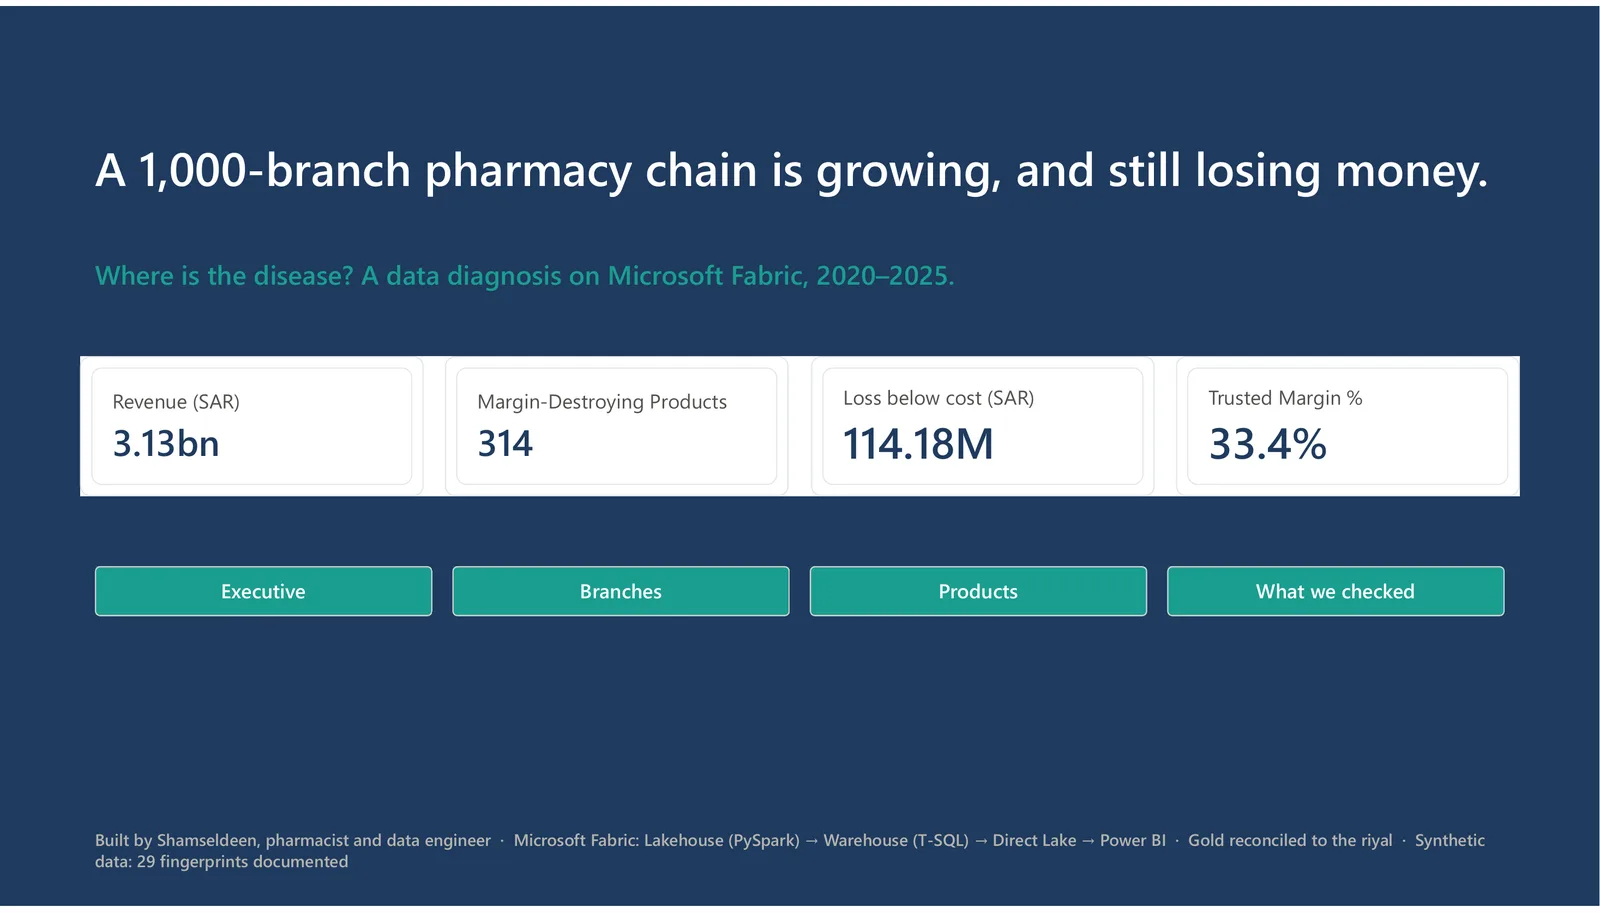
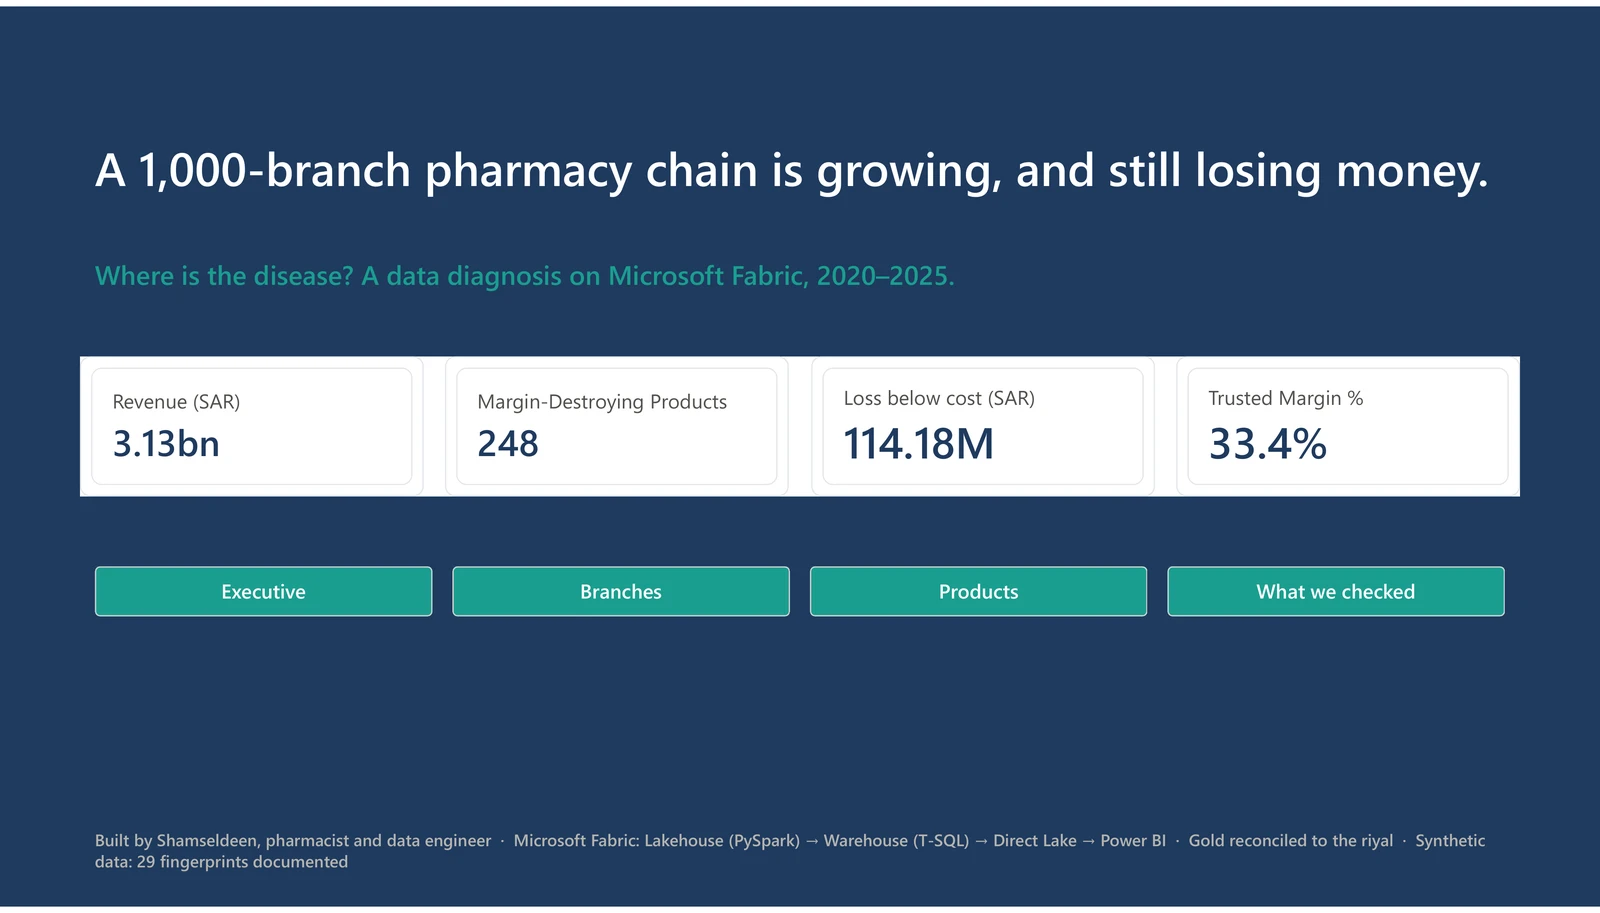
New report screenshots (Home, Products) showing 248; alt texts updated
Claude-Session: https://claude.ai/code/session_01AQige8iJ7D6xowQfUsyuqw

diff --git a/pharmacy-dw-ar.html b/pharmacy-dw-ar.html
@@ -23,7 +23,7 @@
 <h1>السلسلة كانت تنمو.<br><em>ومع ذلك كانت تخسر.</em></h1>
 <p class="case-intro">سلسلة صيدليات من 1,000 فرع تزيد مبيعاتها كل سنة، ومع ذلك تخسر أموالًا. تتبعت البيانات من الكاشير حتى لوحة التقارير، ووجدت أين يذهب المال: <strong>248 صنفًا تُشترى بسعر أعلى من سعر بيعها.</strong></p>
 <div class="hero-actions"><a class="button button-primary" href="#story">اقرأ القصة في دقيقة ↓</a><a class="button button-secondary" href="pharmacy-dashboard-ar.html">استكشف اللوحة التفاعلية ←</a><a class="button button-secondary" href="https://github.com/shamseldeen/pharmacy-enterprise-data-warehouse" target="_blank" rel="noopener">الكود على GitHub ↗</a></div></div>
-<figure class="page-visual page-visual--report"><a class="screenshot-link" href="assets/projects/pharmacy-dw/00_home.webp" target="_blank" rel="noopener"><img src="assets/projects/pharmacy-dw/00_home.webp" width="1600" height="913" loading="lazy" alt="الصفحة الأولى من تقرير Power BI: إيراد 3.13 مليار ريال، 314 صنفًا يدمر الهامش، خسارة 114 مليون ريال، هامش موثوق 33.4%"></a><figcaption>الصفحة الأولى من التقرير · بيانات اصطناعية لسلسلة سعودية، 2020–2025.</figcaption></figure></div>
+<figure class="page-visual page-visual--report"><a class="screenshot-link" href="assets/projects/pharmacy-dw/00_home.webp?v=248" target="_blank" rel="noopener"><img src="assets/projects/pharmacy-dw/00_home.webp?v=248" width="1600" height="913" loading="lazy" alt="الصفحة الأولى من تقرير Power BI: إيراد 3.13 مليار ريال، 248 صنفًا يدمر الهامش، خسارة 114 مليون ريال، هامش موثوق 33.4%"></a><figcaption>الصفحة الأولى من التقرير · بيانات اصطناعية لسلسلة سعودية، 2020–2025.</figcaption></figure></div>
 <aside class="project-brief"><span class="eyebrow">باختصار</span><dl><div><dt>المشكلة</dt><dd>مبيعات تزيد، وربح يتراجع، ولا أحد يعرف السبب</dd></div><div><dt>ماذا بنيت</dt><dd>منصة بيانات كاملة وتقرير من 6 صفحات</dd></div><div><dt>النتيجة</dt><dd>2.6% من الأصناف تسبب 99.8% من الخسارة تحت التكلفة</dd></div><div><dt>الأدوات</dt><dd>Microsoft Fabric · PySpark · SQL · Power BI</dd></div><div><dt>البيانات</dt><dd>اصطناعية · 1,000 فرع · 60 مليون صف</dd></div></dl></aside>
 <div class="scope-stats"><div><strong>114M</strong><span>ريال خسارة في 248 صنفًا (2020–2025)</span></div><div><strong>99.8%</strong><span>من الخسارة تحت التكلفة سببها هذه الأصناف</span></div><div><strong>33%</strong><span>هامش باقي الأصناف</span></div><div><strong>0</strong><span>صف ضائع من المصدر حتى التقرير</span></div></div></section>
 
@@ -31,7 +31,7 @@
 <div class="page-tour">
 <details class="page-detail" open><summary><span class="page-number">01</span><span><strong>المريض يبدو سليمًا</strong><small>الإيراد ينمو حوالي 10% سنويًا.</small></span><span class="detail-symbol" aria-hidden="true">+</span></summary><div class="page-detail-body"><a class="screenshot-link" href="assets/projects/pharmacy-dw/01_executive.webp" target="_blank" rel="noopener"><img src="assets/projects/pharmacy-dw/01_executive.webp" width="1600" height="913" loading="lazy" alt="الصفحة التنفيذية: إيراد 654.5 مليون ريال في 2025 بنمو 10%، مع خريطة السعودية"></a><div class="page-explanation"><h3>ماذا ترى؟</h3><p>المبيعات ترتفع كل سنة، في كل منطقة وكل نوع فرع. لا شيء في هذه الصفحة يبدو خطأ، ولهذا كان صعبًا اكتشاف المشكلة.</p></div></div></details>
 <details class="page-detail"><summary><span class="page-number">02</span><span><strong>الفروع ليست السبب</strong><small>الفروع الضعيفة موزعة، وليست في منطقة واحدة.</small></span><span class="detail-symbol" aria-hidden="true">+</span></summary><div class="page-detail-body"><a class="screenshot-link" href="assets/projects/pharmacy-dw/02_branches.webp" target="_blank" rel="noopener"><img src="assets/projects/pharmacy-dw/02_branches.webp" width="1600" height="913" loading="lazy" alt="صفحة الفروع: 104 فروع في أضعف 10% من مجموعتها"></a><div class="page-explanation"><h3>ماذا ترى؟</h3><p>كل فرع يُقارن فقط بالفروع المشابهة له في الحجم ونوع المدينة. أضعف 10% تظهر بالأحمر كقائمة للمراجعة، وليس للعقاب. واضغط على أي فرع لتفتح صفحته.</p></div></div></details>
-<details class="page-detail"><summary><span class="page-number">03</span><span><strong>المرض المخفي</strong><small>248 صنفًا تُشترى بحوالي 2.5 ضعف سعر القائمة.</small></span><span class="detail-symbol" aria-hidden="true">+</span></summary><div class="page-detail-body"><a class="screenshot-link" href="assets/projects/pharmacy-dw/03_products.webp" target="_blank" rel="noopener"><img src="assets/projects/pharmacy-dw/03_products.webp" width="1600" height="913" loading="lazy" alt="صفحة الأصناف: 314 صنفًا تسبب خسارة 23.97 مليون ريال في 2025"></a><div class="page-explanation"><h3>ماذا ترى؟</h3><p>هذه الأصناف 2% من المبيعات، لكنها سبب 99.8% من الخسارة تحت التكلفة. ولكل صنف، يعرض التقرير الخصم المطلوب من المورد ليحقق هامش 20%. فيصير القرار بسيطًا: تفاوض، أو راجع حجم العبوة، أو أوقف الشراء. التقرير يعلّم 314 صنفًا نسبة تكلفتها غير طبيعية: منها 248 تكلفتها أعلى من سعر القائمة، و66 تكلفتها أقل من 30% منه ولا تخسر شيئًا.</p></div></div></details>
+<details class="page-detail"><summary><span class="page-number">03</span><span><strong>المرض المخفي</strong><small>248 صنفًا تُشترى بحوالي 2.5 ضعف سعر القائمة.</small></span><span class="detail-symbol" aria-hidden="true">+</span></summary><div class="page-detail-body"><a class="screenshot-link" href="assets/projects/pharmacy-dw/03_products.webp?v=248" target="_blank" rel="noopener"><img src="assets/projects/pharmacy-dw/03_products.webp?v=248" width="1600" height="913" loading="lazy" alt="صفحة الأصناف: 248 صنفًا تسبب خسارة 23.97 مليون ريال في 2025"></a><div class="page-explanation"><h3>ماذا ترى؟</h3><p>هذه الأصناف 2% من المبيعات، لكنها سبب 99.8% من الخسارة تحت التكلفة. ولكل صنف، يعرض التقرير الخصم المطلوب من المورد ليحقق هامش 20%. فيصير القرار بسيطًا: تفاوض، أو راجع حجم العبوة، أو أوقف الشراء. التقرير يعلّم 314 صنفًا نسبة تكلفتها غير طبيعية: منها 248 تكلفتها أعلى من سعر القائمة، و66 تكلفتها أقل من 30% منه ولا تخسر شيئًا.</p></div></div></details>
 <details class="page-detail"><summary><span class="page-number">04</span><span><strong>ماذا فحصنا، بصدق</strong><small>7 مؤشرات تلاعب فُحصت، ولم يثبت أي منها. و29 حدًا للبيانات موثق.</small></span><span class="detail-symbol" aria-hidden="true">+</span></summary><div class="page-detail-body"><a class="screenshot-link" href="assets/projects/pharmacy-dw/04_what_we_checked.webp" target="_blank" rel="noopener"><img src="assets/projects/pharmacy-dw/04_what_we_checked.webp" width="1600" height="913" loading="lazy" alt="صفحة ما فحصناه: مؤشرات النزاهة وبصمات البيانات"></a><div class="page-explanation"><h3>ماذا ترى؟</h3><p>قبل اتهام أي شخص، فُحصت 7 أنماط تلاعب شائعة، ولم يكن أي منها أقوى من الصدفة، فلم يُذكر اسم أحد. الثغرة الحقيقية ضابط مفقود: لا شيء يمنع شراء صنف بسعر أعلى من سعر بيعه.</p></div></div></details>
 </div>
 <div class="editorial-note"><strong>في جملة واحدة</strong><p>المبيعات كانت تنمو، والفروع تعمل، والشركة ما زالت تنزف. المرض لم يكن حيث ينظر الجميع.</p></div></section>

diff --git a/pharmacy-dw.html b/pharmacy-dw.html
@@ -23,7 +23,7 @@
 <h1>The chain was growing.<br><em>And still losing money.</em></h1>
 <p class="case-intro">A pharmacy chain with 1,000 branches sold more every year, yet it kept losing money. I traced the data from the cash register to the dashboard and found where the money goes: <strong>248 products that cost more to buy than they sell for.</strong></p>
 <div class="hero-actions"><a class="button button-primary" href="#story">Read the 1-minute story ↓</a><a class="button button-secondary" href="pharmacy-dashboard.html">Explore the live dashboard →</a><a class="button button-secondary" href="https://github.com/shamseldeen/pharmacy-enterprise-data-warehouse" target="_blank" rel="noopener">See the code on GitHub ↗</a></div></div>
-<figure class="page-visual page-visual--report"><a class="screenshot-link" href="assets/projects/pharmacy-dw/00_home.webp" target="_blank" rel="noopener"><img src="assets/projects/pharmacy-dw/00_home.webp" width="1600" height="913" loading="lazy" alt="Landing page of the Power BI report: revenue 3.13 billion SAR, 314 margin-destroying products, 114 million SAR loss below cost, 33.4% trusted margin"></a><figcaption>Report landing page · synthetic data, Saudi chain, 2020–2025.</figcaption></figure></div>
+<figure class="page-visual page-visual--report"><a class="screenshot-link" href="assets/projects/pharmacy-dw/00_home.webp?v=248" target="_blank" rel="noopener"><img src="assets/projects/pharmacy-dw/00_home.webp?v=248" width="1600" height="913" loading="lazy" alt="Landing page of the Power BI report: revenue 3.13 billion SAR, 248 margin-destroying products, 114 million SAR loss below cost, 33.4% trusted margin"></a><figcaption>Report landing page · synthetic data, Saudi chain, 2020–2025.</figcaption></figure></div>
 <aside class="project-brief"><span class="eyebrow">In one glance</span><dl><div><dt>The problem</dt><dd>Growing sales, shrinking profit, nobody knew why</dd></div><div><dt>What I built</dt><dd>A full data platform and a 6-page report</dd></div><div><dt>The finding</dt><dd>2.6% of products cause 99.8% of the loss below cost</dd></div><div><dt>Tools</dt><dd>Microsoft Fabric · PySpark · SQL · Power BI</dd></div><div><dt>Data</dt><dd>Synthetic · 1,000 branches · 60 million rows</dd></div></dl></aside>
 <div class="scope-stats"><div><strong>114M</strong><span>SAR lost on 248 products (2020–2025)</span></div><div><strong>99.8%</strong><span>of the loss below cost comes from them</span></div><div><strong>33%</strong><span>margin on every other product</span></div><div><strong>0</strong><span>rows lost from source to report</span></div></div></section>
 
@@ -31,7 +31,7 @@
 <div class="page-tour">
 <details class="page-detail" open><summary><span class="page-number">01</span><span><strong>The patient looks healthy</strong><small>Revenue grows about 10% a year.</small></span><span class="detail-symbol" aria-hidden="true">+</span></summary><div class="page-detail-body"><a class="screenshot-link" href="assets/projects/pharmacy-dw/01_executive.webp" target="_blank" rel="noopener"><img src="assets/projects/pharmacy-dw/01_executive.webp" width="1600" height="913" loading="lazy" alt="Executive page: revenue 654.5 million SAR in 2025, up 10% on last year, with a map of Saudi Arabia"></a><div class="page-explanation"><h3>What you see</h3><p>Sales rise every year, in every region and branch type. Nothing on this page looks wrong, which is exactly why the problem was hard to find.</p></div></div></details>
 <details class="page-detail"><summary><span class="page-number">02</span><span><strong>The branches are not the cause</strong><small>Weak branches are spread evenly, not one region.</small></span><span class="detail-symbol" aria-hidden="true">+</span></summary><div class="page-detail-body"><a class="screenshot-link" href="assets/projects/pharmacy-dw/02_branches.webp" target="_blank" rel="noopener"><img src="assets/projects/pharmacy-dw/02_branches.webp" width="1600" height="913" loading="lazy" alt="Branches page: 104 branches in the bottom 10% of their peer group, scatter of sales per hour against branch score"></a><div class="page-explanation"><h3>What you see</h3><p>Each branch is compared only with similar branches (same size and city type). The weakest 10% appear in red, as a list to review, not to punish. Click a branch to open its own profile.</p></div></div></details>
-<details class="page-detail"><summary><span class="page-number">03</span><span><strong>The hidden disease</strong><small>248 products are bought at about 2.5x their list price.</small></span><span class="detail-symbol" aria-hidden="true">+</span></summary><div class="page-detail-body"><a class="screenshot-link" href="assets/projects/pharmacy-dw/03_products.webp" target="_blank" rel="noopener"><img src="assets/projects/pharmacy-dw/03_products.webp" width="1600" height="913" loading="lazy" alt="Products page: 314 products cause 23.97 million SAR loss in 2025; table with the supplier discount needed for each product"></a><div class="page-explanation"><h3>What you see</h3><p>These products are 2% of sales but cause 99.8% of the loss below cost. For each one, the report shows the discount the supplier would need to give for a 20% margin. The decision becomes simple: renegotiate, check the pack size, or stop buying. The report flags 314 products with an unusual cost ratio: these 248 cost more than their list price; the other 66 cost under 30% of it and lose nothing.</p></div></div></details>
+<details class="page-detail"><summary><span class="page-number">03</span><span><strong>The hidden disease</strong><small>248 products are bought at about 2.5x their list price.</small></span><span class="detail-symbol" aria-hidden="true">+</span></summary><div class="page-detail-body"><a class="screenshot-link" href="assets/projects/pharmacy-dw/03_products.webp?v=248" target="_blank" rel="noopener"><img src="assets/projects/pharmacy-dw/03_products.webp?v=248" width="1600" height="913" loading="lazy" alt="Products page: 248 products cause 23.97 million SAR loss in 2025; table with the supplier discount needed for each product"></a><div class="page-explanation"><h3>What you see</h3><p>These products are 2% of sales but cause 99.8% of the loss below cost. For each one, the report shows the discount the supplier would need to give for a 20% margin. The decision becomes simple: renegotiate, check the pack size, or stop buying. The report flags 314 products with an unusual cost ratio: these 248 cost more than their list price; the other 66 cost under 30% of it and lose nothing.</p></div></div></details>
 <details class="page-detail"><summary><span class="page-number">04</span><span><strong>What we checked, honestly</strong><small>7 fraud signals tested; none proved. 29 data limits listed.</small></span><span class="detail-symbol" aria-hidden="true">+</span></summary><div class="page-detail-body"><a class="screenshot-link" href="assets/projects/pharmacy-dw/04_what_we_checked.webp" target="_blank" rel="noopener"><img src="assets/projects/pharmacy-dw/04_what_we_checked.webp" width="1600" height="913" loading="lazy" alt="What we checked page: integrity signals and data fingerprints"></a><div class="page-explanation"><h3>What you see</h3><p>Before blaming any person, the analysis tested seven common fraud patterns. None was stronger than chance, so nobody is named. The real gap is a missing control: nothing stops a product being bought above its selling price.</p></div></div></details>
 </div>
 <div class="editorial-note"><strong>In one sentence</strong><p>Sales were growing, branches were working, and the company was still bleeding. The disease was not where everyone was looking.</p></div></section>

diff --git a/index-ar.html b/index-ar.html
@@ -105,7 +105,7 @@
     <aside class="hero-project reveal" aria-label="المشروع الرئيسي">
       <div class="preview-topline"><span class="live-dot"></span> المشروع الرئيسي <span>01 / Microsoft Fabric</span></div>
       <a class="preview-image" href="pharmacy-dw-ar.html" aria-label="اقرأ دراسة حالة سلسلة الصيدليات">
-        <img src="assets/projects/pharmacy-dw/00_home.webp" alt="الصفحة الأولى من التقرير: سلسلة من 1,000 صيدلية تنمو ومع ذلك تخسر؛ 314 صنفًا تسبب خسارة 114 مليون ريال" width="1600" height="913" fetchpriority="high">
+        <img src="assets/projects/pharmacy-dw/00_home.webp?v=248" alt="الصفحة الأولى من التقرير: سلسلة من 1,000 صيدلية تنمو ومع ذلك تخسر؛ 248 صنفًا تسبب خسارة 114 مليون ريال" width="1600" height="913" fetchpriority="high">
       </a>
       <div class="hero-project-caption"><span class="eyebrow">دراسة الحالة الرئيسية</span><h2>السلسلة كانت تنمو.<br>ومع ذلك كانت تخسر.</h2><p>1,000 فرع، ومبيعات تزيد، وربح يتراجع. السبب: 248 صنفًا تُشترى بأعلى من سعر بيعها.</p>
         <a class="text-link" href="pharmacy-dw-ar.html">اقرأ القصة في دقيقة <span aria-hidden="true">↗</span></a>
@@ -137,7 +137,7 @@
         <div class="hero-actions compact-actions"><a class="button button-primary" href="pharmacy-dw-ar.html">اقرأ دراسة الحالة ↗</a><a class="button button-secondary" href="https://github.com/shamseldeen/pharmacy-enterprise-data-warehouse" target="_blank" rel="noopener">الكود</a></div>
         <p class="project-note">مشروع مستقل · بيانات اصطناعية · لا بيانات لصاحب عمل أو مرضى</p>
       </div>
-      <a class="architecture-card report-preview" href="pharmacy-dw-ar.html"><img src="assets/projects/pharmacy-dw/03_products.webp" alt="صفحة الأصناف: 314 صنفًا تسبب خسارة 23.97 مليون ريال في 2025" loading="lazy" width="1600" height="913"><span>شاهد أين يذهب المال ←</span></a>
+      <a class="architecture-card report-preview" href="pharmacy-dw-ar.html"><img src="assets/projects/pharmacy-dw/03_products.webp?v=248" alt="صفحة الأصناف: 248 صنفًا تسبب خسارة 23.97 مليون ريال في 2025" loading="lazy" width="1600" height="913"><span>شاهد أين يذهب المال ←</span></a>
     </article>
 
     <article class="flagship flagship-bi reveal">

diff --git a/index.html b/index.html
@@ -115,7 +115,7 @@
     <aside class="hero-project reveal" aria-label="Featured project">
       <div class="preview-topline"><span class="live-dot"></span> FLAGSHIP PROJECT <span>01 / MICROSOFT FABRIC</span></div>
       <a class="preview-image" href="pharmacy-dw.html" aria-label="Read the pharmacy chain case study">
-        <img src="assets/projects/pharmacy-dw/00_home.webp" alt="Report landing page: a 1,000-branch pharmacy chain is growing and still losing money; 314 products cause 114 million SAR loss" width="1600" height="913" fetchpriority="high">
+        <img src="assets/projects/pharmacy-dw/00_home.webp?v=248" alt="Report landing page: a 1,000-branch pharmacy chain is growing and still losing money; 248 products cause 114 million SAR loss" width="1600" height="913" fetchpriority="high">
       </a>
       <div class="hero-project-caption"><span class="eyebrow">Flagship case study</span><h2>The chain was growing.<br>And still losing money.</h2><p>1,000 branches, rising sales, shrinking profit. The cause: 248 products bought for more than they sell for.</p>
         <a class="text-link" href="pharmacy-dw.html">Read the 1-minute story <span aria-hidden="true">↗</span></a>
@@ -149,7 +149,7 @@
         <div class="hero-actions compact-actions"><a class="button button-primary" href="pharmacy-dw.html">Read the case study ↗</a><a class="button button-secondary" href="https://github.com/shamseldeen/pharmacy-enterprise-data-warehouse" target="_blank" rel="noopener">See the code</a></div>
         <p class="project-note">Independent portfolio project · Synthetic data · No employer or patient data</p>
       </div>
-      <a class="architecture-card report-preview" href="pharmacy-dw.html"><img src="assets/projects/pharmacy-dw/03_products.webp" alt="Products page: 314 products cause 23.97 million SAR loss in 2025" loading="lazy" width="1600" height="913"><span>See where the money goes →</span></a>
+      <a class="architecture-card report-preview" href="pharmacy-dw.html"><img src="assets/projects/pharmacy-dw/03_products.webp?v=248" alt="Products page: 248 products cause 23.97 million SAR loss in 2025" loading="lazy" width="1600" height="913"><span>See where the money goes →</span></a>
     </article>
 
     <article class="flagship flagship-bi reveal">
